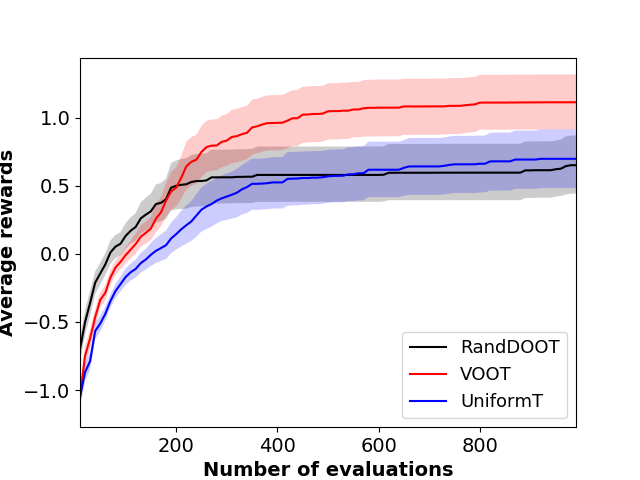
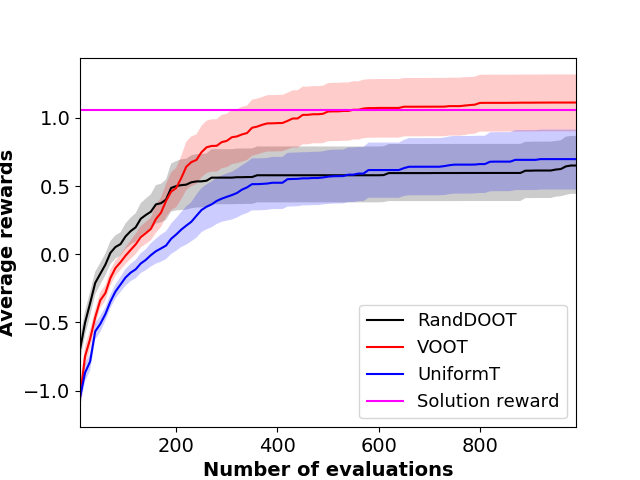
3

diff --git a/plotters/plot_planners.py b/plotters/plot_planners.py
@@ -211,6 +211,7 @@ def plot_across_algorithms():
             pickle.dump((search_rwd_times, organized_times, max_rwd), open(pkl_fname, 'wb'))
 
             max_rwds.append(max_rwd)
+        print len(organized_times)
         algo_name = get_algo_name(algo)
         sns.tsplot(search_rwd_times[:, :args.mcts_iter], organized_times[:args.mcts_iter], ci=95, condition=algo_name,
                    color=color_dict[algo_name])
@@ -219,8 +220,7 @@ def plot_across_algorithms():
     if args.domain == 'convbelt':
         sns.tsplot([4.51]*args.mcts_iter, organized_times[:args.mcts_iter], ci=95, condition='2x Unif', color='magenta')
     else:
-        pass
-        #sns.tsplot([0.712]*(args.mcts_iter), organized_times[:args.mcts_iter], ci=95, condition='2x Unif', color='magenta')
+        sns.tsplot([1.062]*len(organized_times[:args.mcts_iter]), organized_times[:args.mcts_iter], ci=95, condition='Solution reward', color='magenta')
     #if args.domain=='namo':
     #    plt.ylim([2, 4.5])
 
